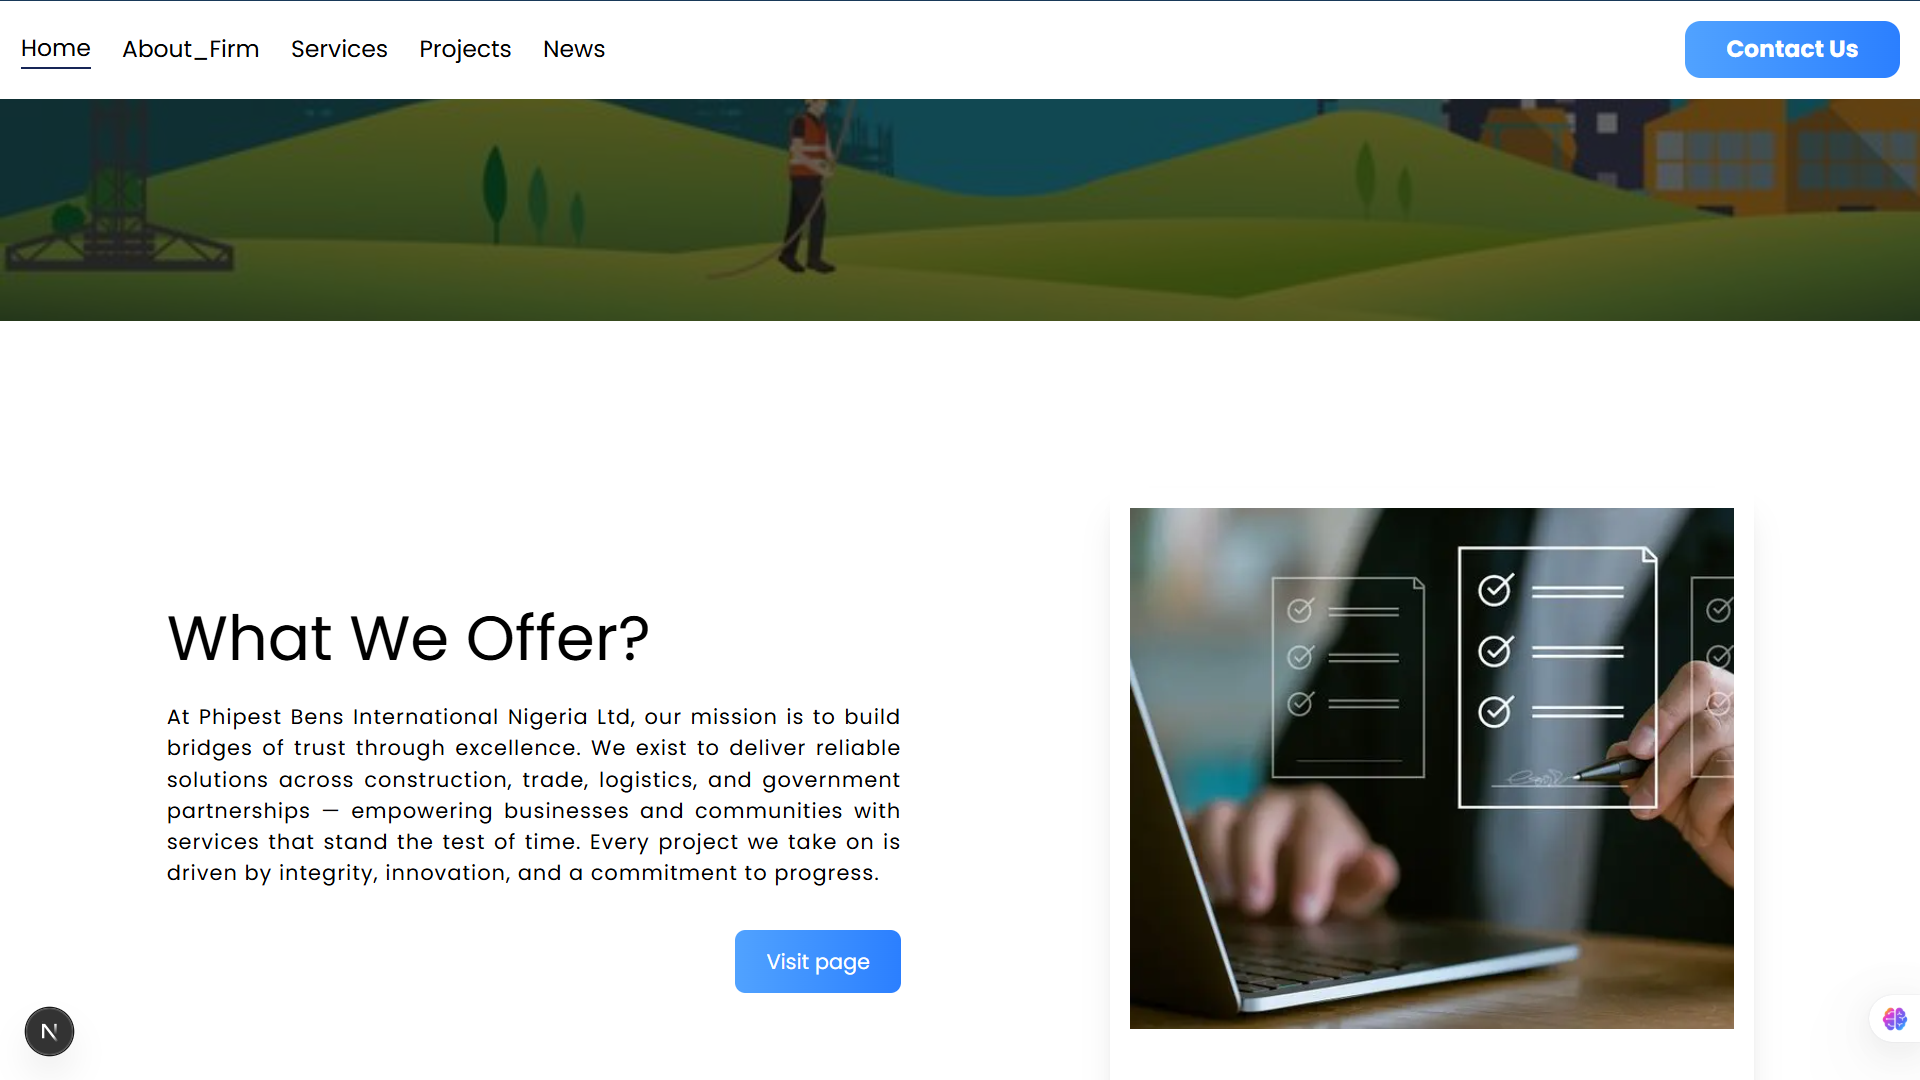
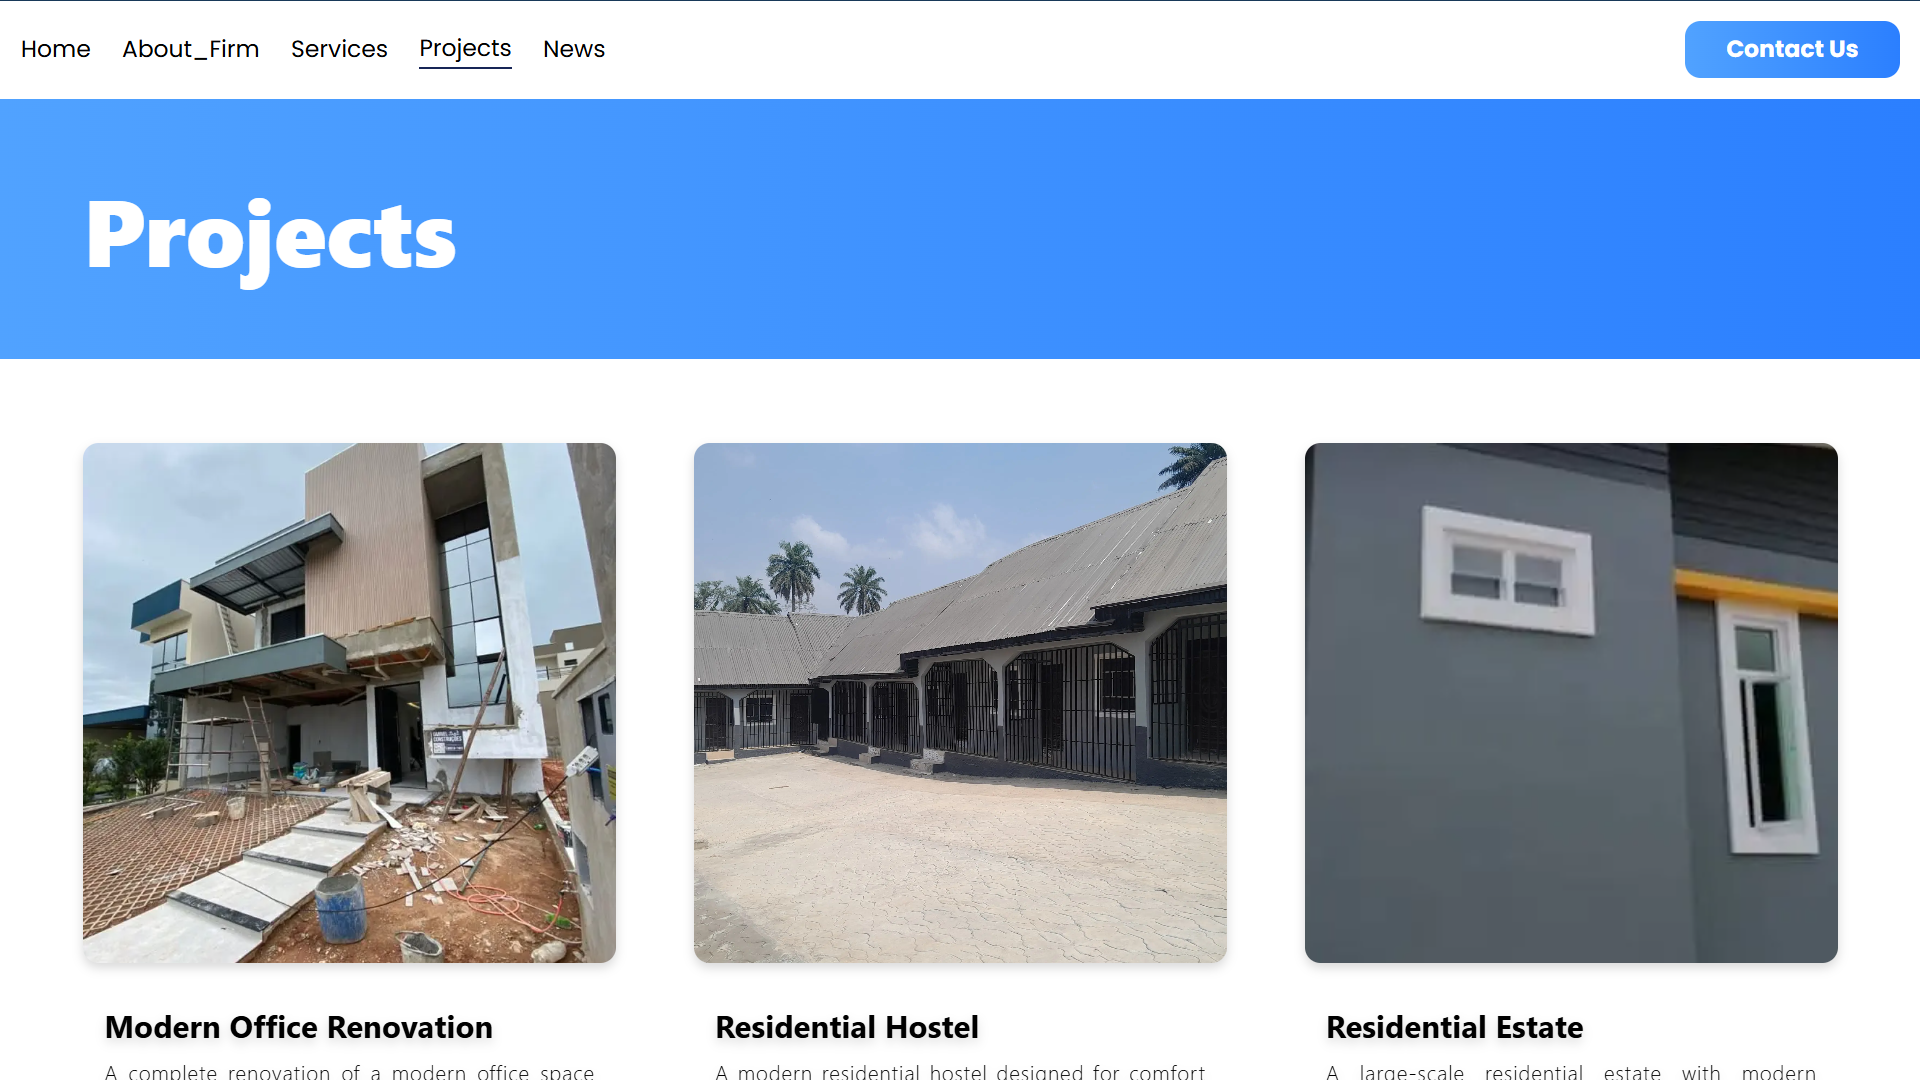
removed movie app as it isn't a real project and made the experience page hiden

diff --git a/data/projects.ts b/data/projects.ts
@@ -43,17 +43,17 @@ export const links: Project[] = [
     description:
       "Password Generator is a utility app that creates strong, random passwords with customizable length and complexity. It has a clean interface and fast performance, demonstrating practical React skills and a focus on user-friendly design.",
   },
-  {
-    slug: "movie-app",
-    name: "Movie App Main",
-    image: "/movie-app.png",
-    site: "https://movie-app-delta-sand.vercel.app/",
-    github_site: "https://github.com/Festus-123/Movie-app",
-    github: "/github.jpg",
-    stacks: ["React.js", "JavaScript", "TMDB API", "Firebase", "Tailwind CSS", "Responsive UI"],
-    description:
-      "Movie App Main is a movie discovery app using TMDB API. Users can browse trending movies, search titles, and view detailed info while also being able to watch a short image stram of the movie. Firebase powers additional features and Tailwind CSS ensures responsive, modern design.",
-  },
+  // {
+  //   slug: "movie-app",
+  //   name: "Movie App Main",
+  //   image: "/movie-app.png",
+  //   site: "https://movie-app-delta-sand.vercel.app/",
+  //   github_site: "https://github.com/Festus-123/Movie-app",
+  //   github: "/github.jpg",
+  //   stacks: ["React.js", "JavaScript", "TMDB API", "Firebase", "Tailwind CSS", "Responsive UI"],
+  //   description:
+  //     "Movie App Main is a movie discovery app using TMDB API. Users can browse trending movies, search titles, and view detailed info while also being able to watch a short image stram of the movie. Firebase powers additional features and Tailwind CSS ensures responsive, modern design.",
+  // },
   {
     slug: "collecta-nft",
     name: "Collecta NFT",
@@ -108,5 +108,16 @@ export const links: Project[] = [
     stacks: ["Next.js", "TypeScript", "GSAP", "Tailwind CSS", "Responsive UI", "Supabase"],
     description:
       "DebateX a startup project by Festus Philli to host Live debates accross the globe with interesting figures and occurence, A place where -Everyone is the Judge, -EveryOne is heard, -Every Opinion matters, -Questions are asked, -Where people grow more in the digital world. DebateX brings about connectivity and communication espite ifferent region race and time zone, it also bring about Reconcepting Misconception",
+  },
+  {
+    slug: "photographer",
+    name: "Photographer",
+    image: "/photgrapher.png",
+    site: "https://celeb-portfolio-sandy.vercel.app/",
+    github_site: "https://github.com/Festus-123/celeb-portfolio",
+    github: "/github.jpg",
+    stacks: ["Next.js", "TypeScript", "Tailwind CSS", "Responsive UI", ],
+    description:
+      "A stunning website that showcase the work of a profesional celebrity photgrapher, capturing their moments and displaying it in a clean structure and format. A photographer with the saying diamond in the rough with a website that speaks the volume. --An artwork made by code",
   },
 ];

diff --git a/app/projects/[slug]/page.tsx b/app/projects/[slug]/page.tsx
@@ -43,7 +43,7 @@ const page = async ({ params }: { params: Promise<{ slug: string }> }) => {
             </p>
           ))}
         </div>
-        <div className="flex md:flex-row flex-col-reverse gap-20 md:gap-10 ">
+        <div className="flex md:flex-row-reverse flex-col-reverse gap-20 md:gap-10 ">
           <div className="w-full md:w-[50%] p-4 md:p-8">
             <h1 className="font-light tracking-wide text-xl md:text-2xl text-justify leading-relaxed">
               {project.description}

diff --git a/components/main-sites/About_Me.tsx b/components/main-sites/About_Me.tsx
@@ -100,7 +100,7 @@ const About_Me = () => {
         animate={{ y: 0 }}
         transition={{ duration: 0.8 }}
         style={{ y: translateContent }}
-        className="bg-white text-white">
+        className="bg-white text-white hidden">
           <motion.div
             className="bg-black/90 px-4 pt-4 md:pt-8 md:px-8">
               <h1 className="text-balance text-4xl md:text-7xl font-extrabold border-b border-gray-300 pb-8">
